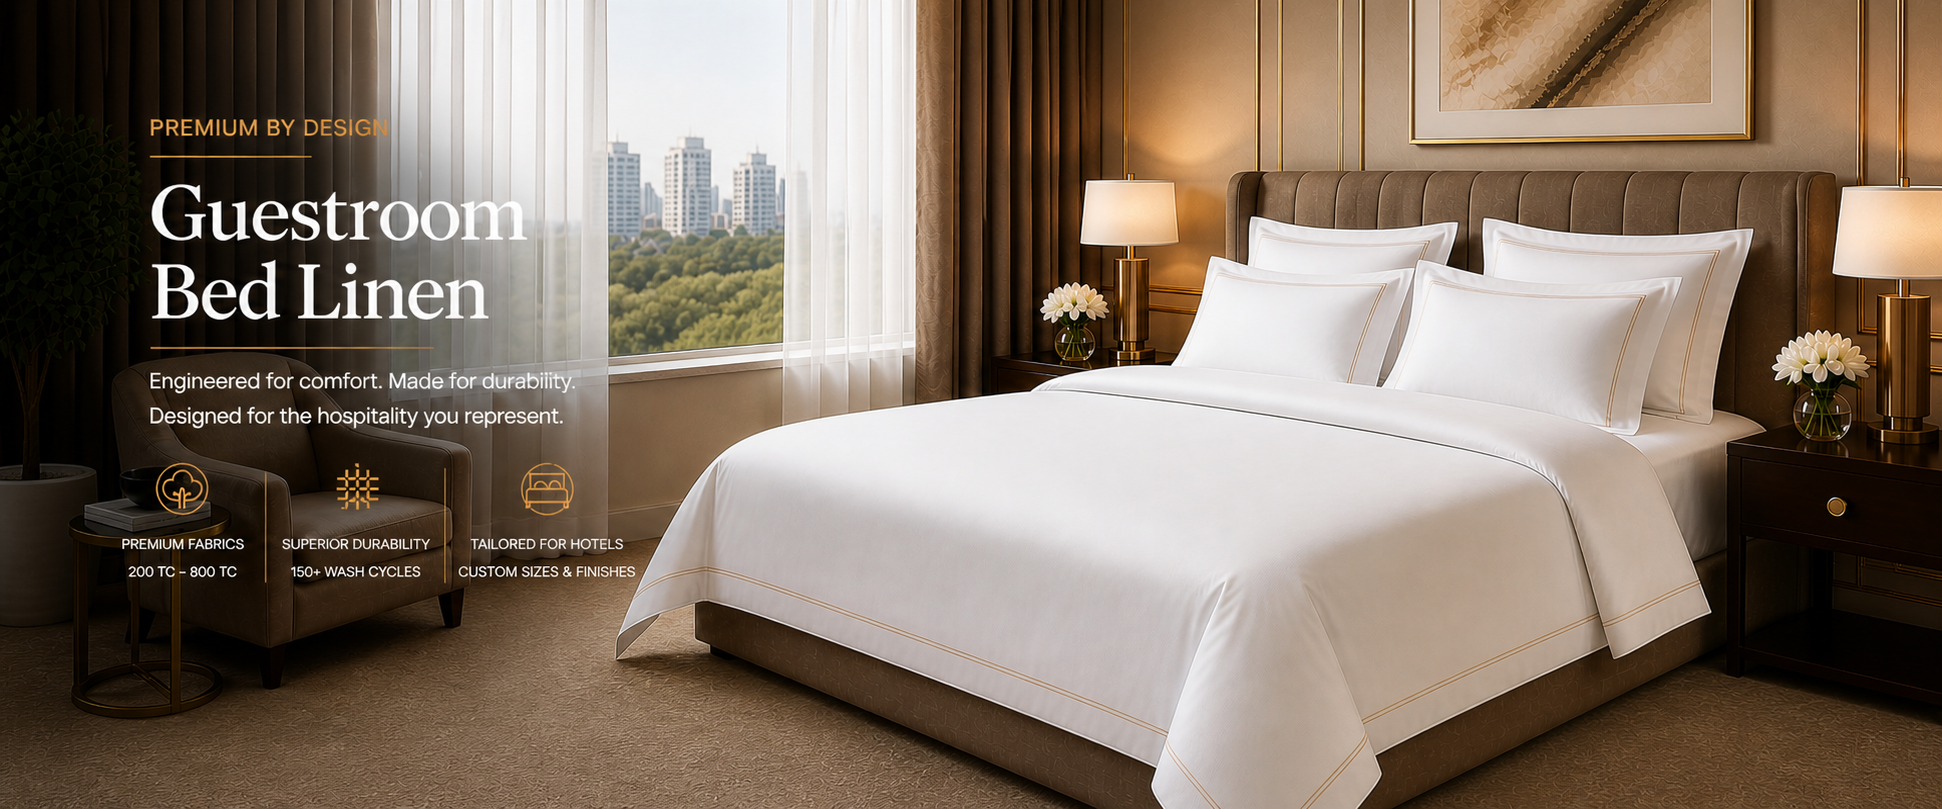
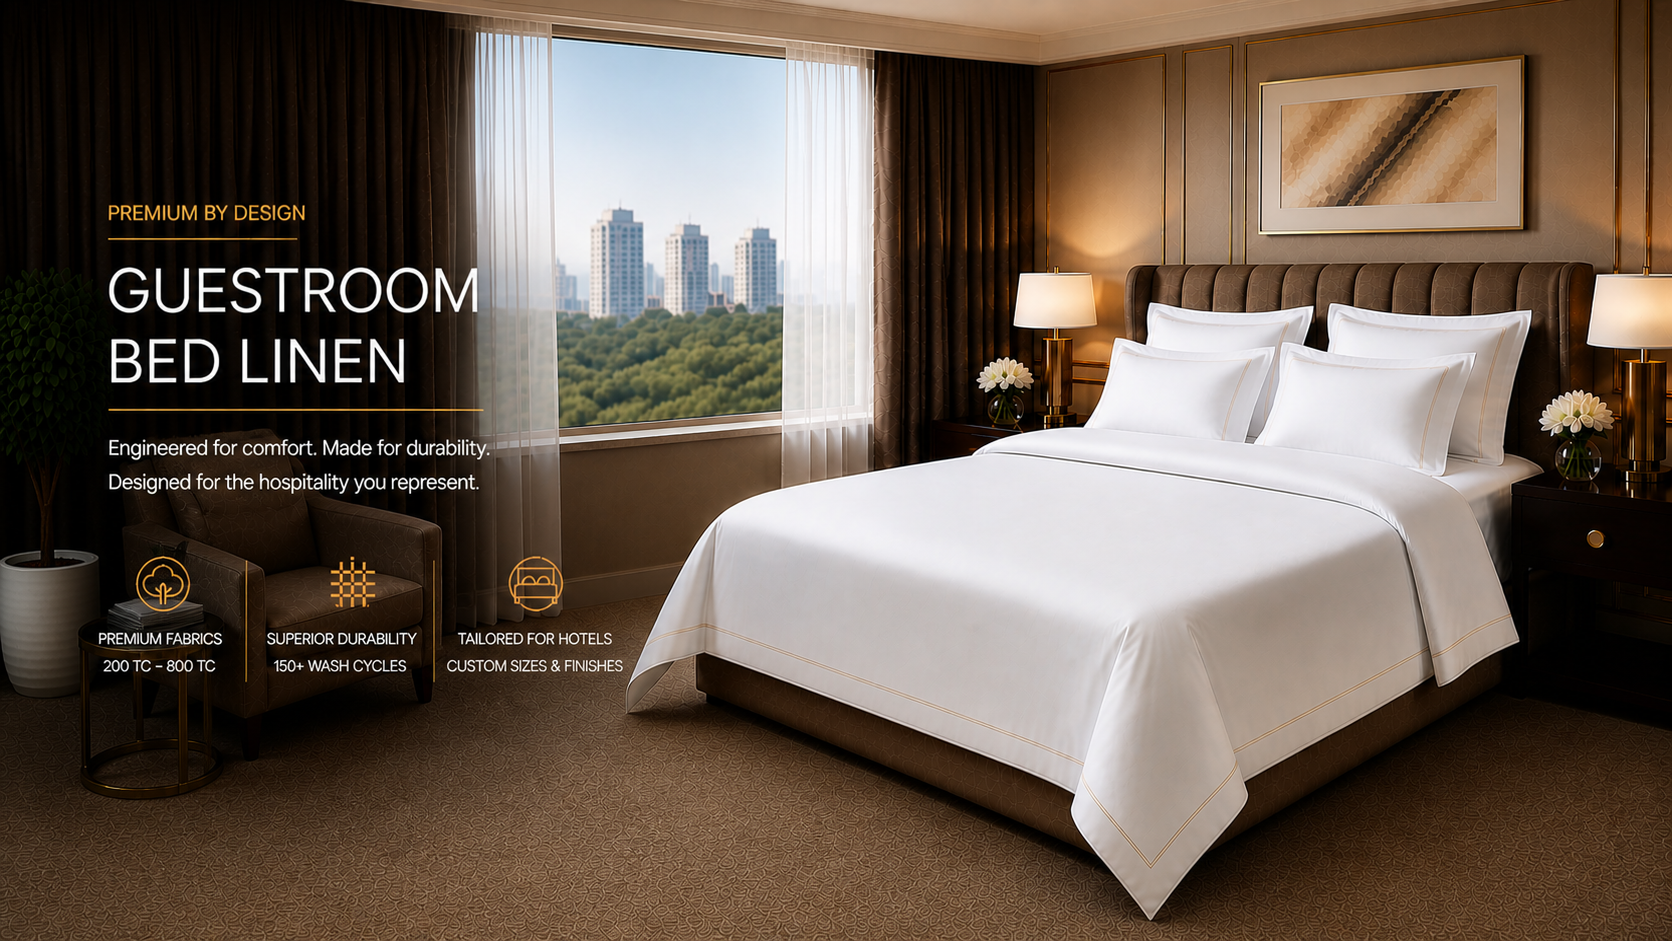
image updated

diff --git a/css/style.css b/css/style.css
@@ -482,7 +482,7 @@ blockquote cite:before {
 }
 
 .bg-img {
-    background-size: contain;
+    background-size: cover;
     background-repeat: no-repeat;
 }
 
@@ -8770,17 +8770,18 @@ input[type="submit"],
     }
 
     .oeko-strip {
-        flex-direction: column;
-        align-items: flex-start;
-        padding: 16px 18px;
+        flex-direction: row;
+        gap: 2px;
+        align-items: center;
+        padding: 5px;
     }
 
     .oeko-strip-badge img {
-        width: 66px;
+        width: 30px;
     }
 
     .oeko-strip-text {
-        font-size: 15px;
+        font-size: 8px;
     }
 
     .facilties .single-facility {

diff --git a/guestroom-bed-linen.html b/guestroom-bed-linen.html
@@ -62,7 +62,7 @@
     </div>
   </nav>
   <!-- Hero Section -->
-  <header class="banner-header section-padding valign bg-img bg-fixed" data-overlay-dark="3"
+  <header class="banner-header section-padding valign bg-img bg-fixed" data-overlay-dark="2"
     data-background="img/Bedsheets/guestroom.png" data-background-mobile="img/Bedsheets/Mobile.png">
     <div class="container">
       <!-- <div class="row">
